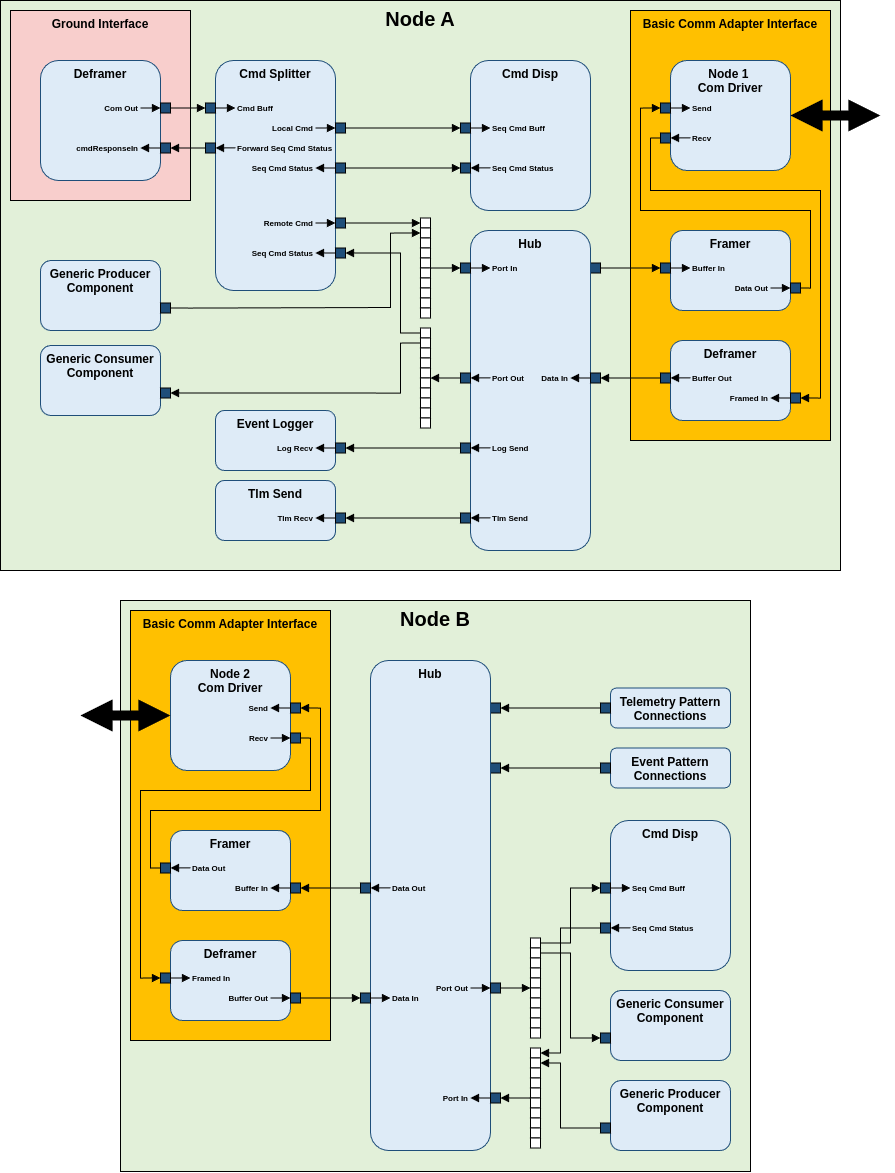
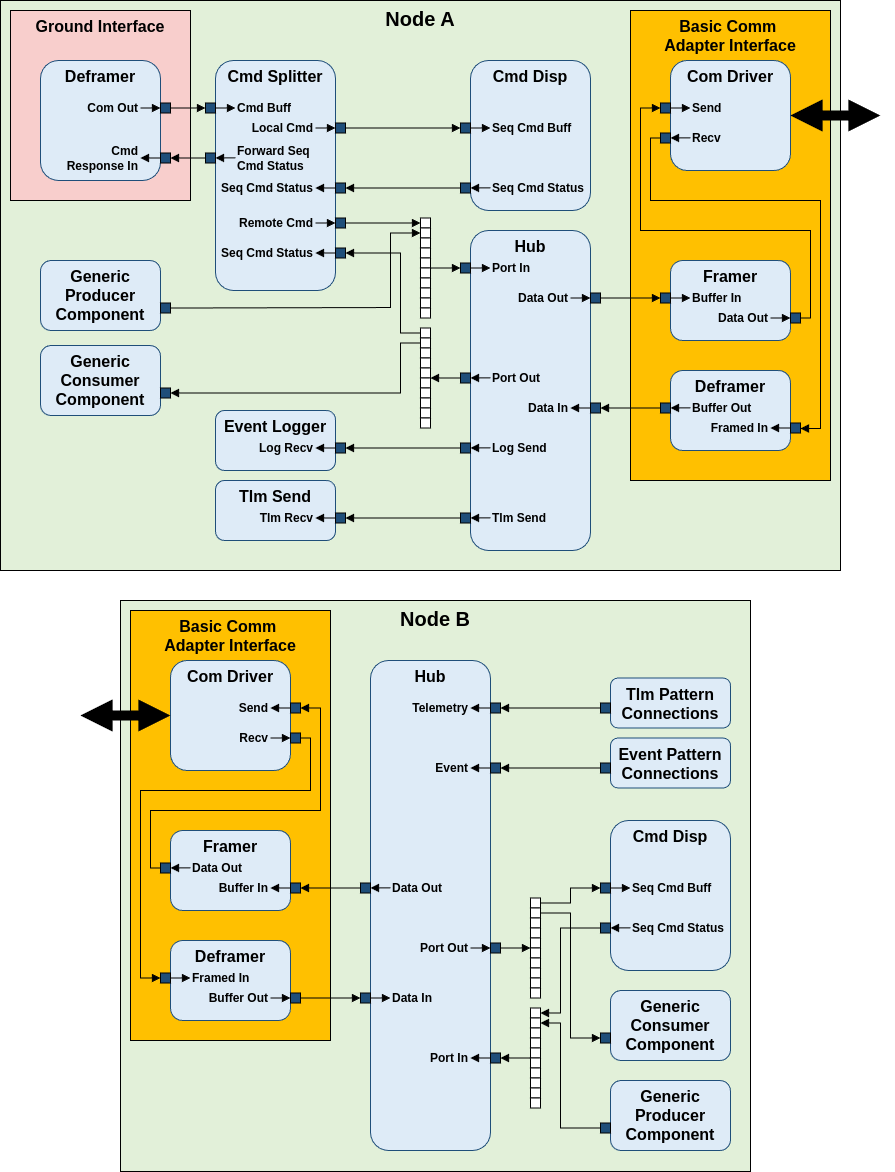
Fix Hub Diagram Text and typos

diff --git a/docs/UsersGuide/best/hub-pattern.md b/docs/UsersGuide/best/hub-pattern.md
@@ -40,8 +40,8 @@ Dispatcher. The command offset of the command splitter should match the commands
 command received above the offset directly to the hub, while commands below the offset will be routed to the local Command Dispatcher.
 Instance ids must also match this offset, which may be implemented as the following for each instance in instances.fpp:
 ```shell
-# In Node2's instances.fpp
-module Node2Deployment {
+# In Node B's instances.fpp
+module NodeBDeployment {
   constant CMD_SPLITTER_OFFSET = 0x10000
   ...
   instance b_hub: Svc.GenericHub base id CMD_SPLITTER_OFFSET + 0x9000
@@ -82,11 +82,7 @@ connected to Node A's Event Logger and Tlm Send through the Log Send and Tlm Sen
 ```
 
 ### Implementation Notes
-It is recommended to set static IPs for both nodes if using a multi-computer system. This should prevent any unwanted DHCP IP requests which 
-would change the adderss of either the host or client computer.
-
-All instances names should be unique across the entire F´ System. Instances with the same name may mix telemetry and logging together with no 
-solid way to differentiate between deployments.
+All instances names should be unique across the entire F´ System. Instances with the same name may mix telemetry and logging together with no differentiation between deployments.
 
 If telemetry and event connections are tied to the hub, the setup order in setupTopology in obcBTopology.cpp will need to be slightly 
 reordered. This should be a swap between `configureTopology()` and `regCommands()`, which should match the following:
@@ -140,6 +136,7 @@ Node A and Node B.
 dictionaries for both Node A and Node B. It also depends on the locs.fpp file generated
 when running `fprime-util generate`.
 `fpp-to-dict` is then used to retrieve the dependencies and build a dictionary.
+These can be either ran in the terminal or executed with a shell script.
 
 ```shell
 #!/bin/bash
